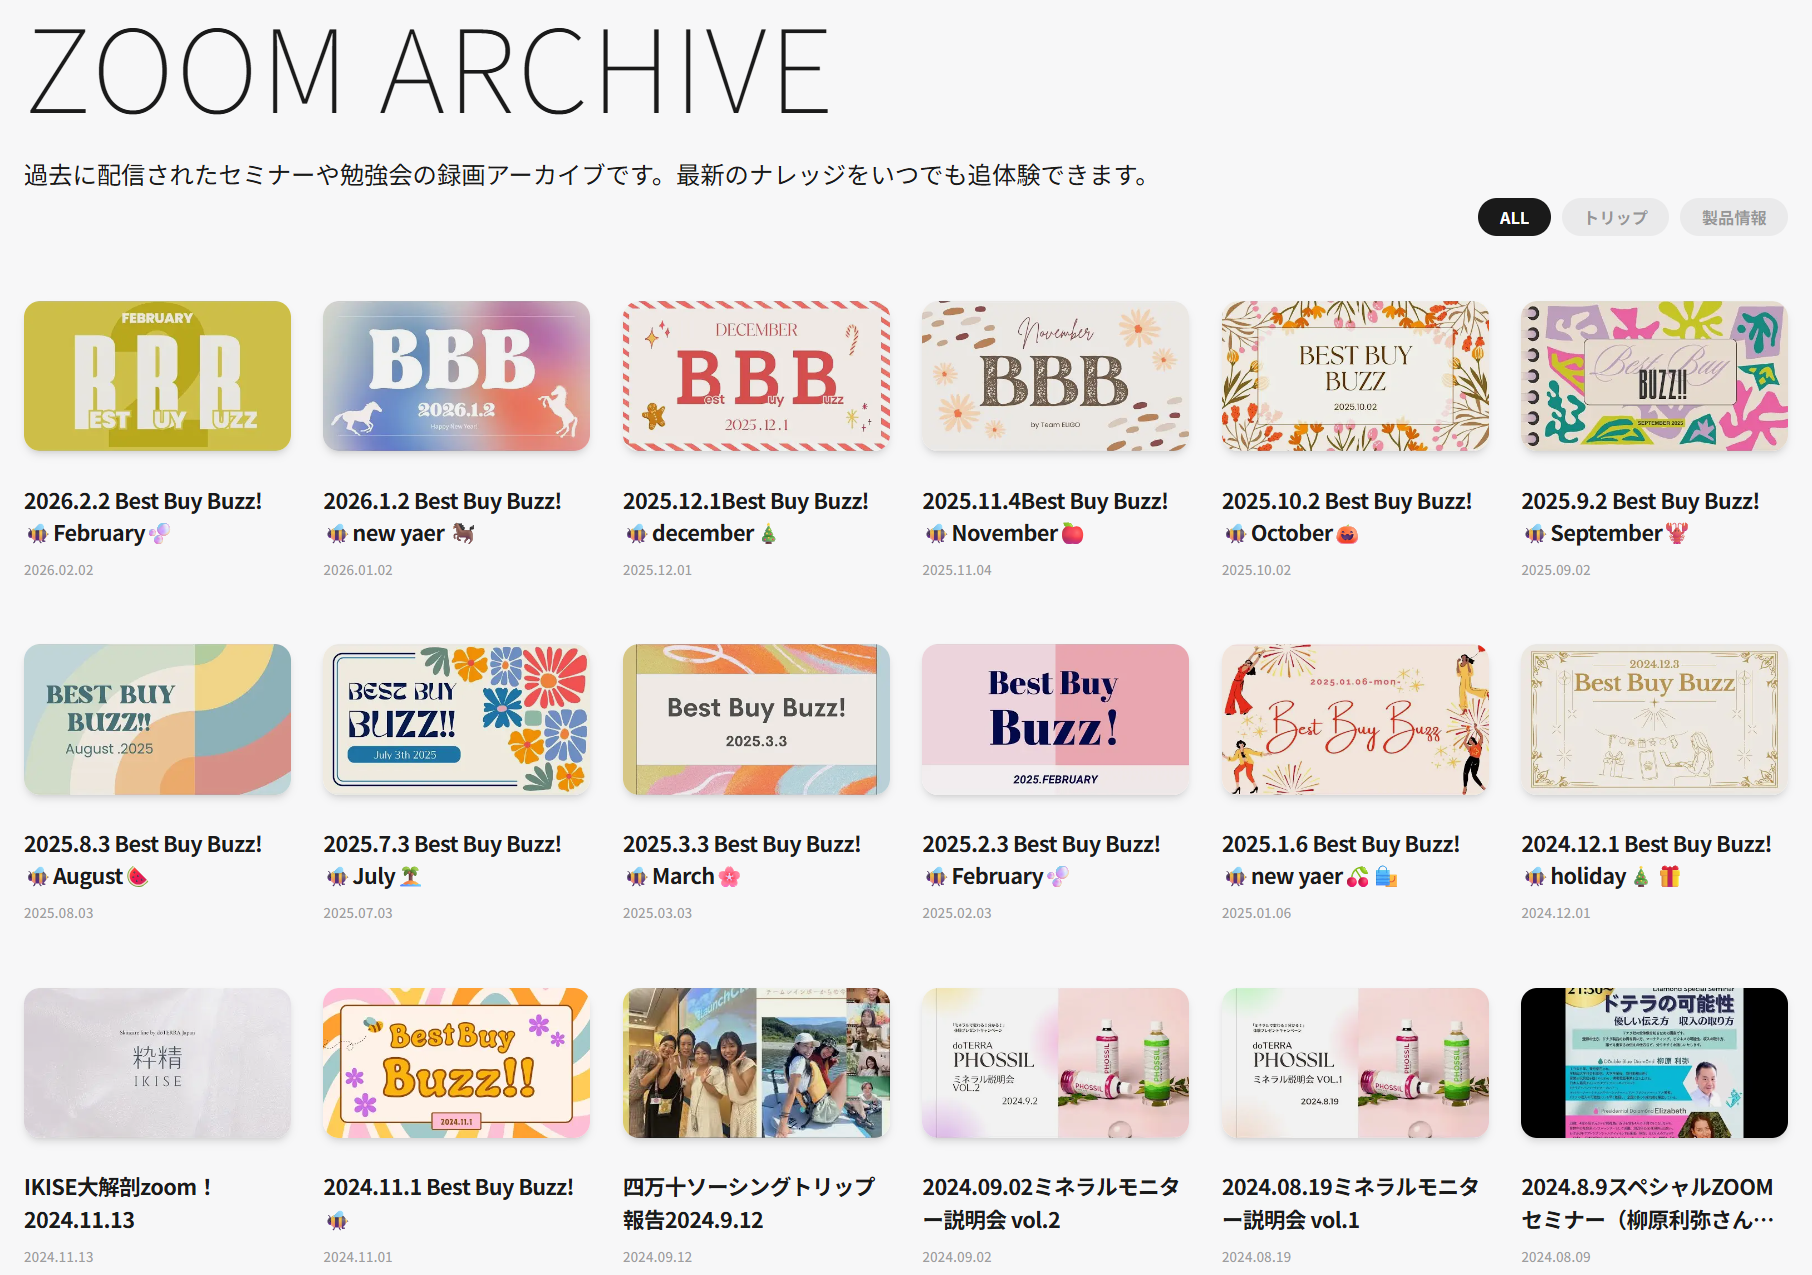
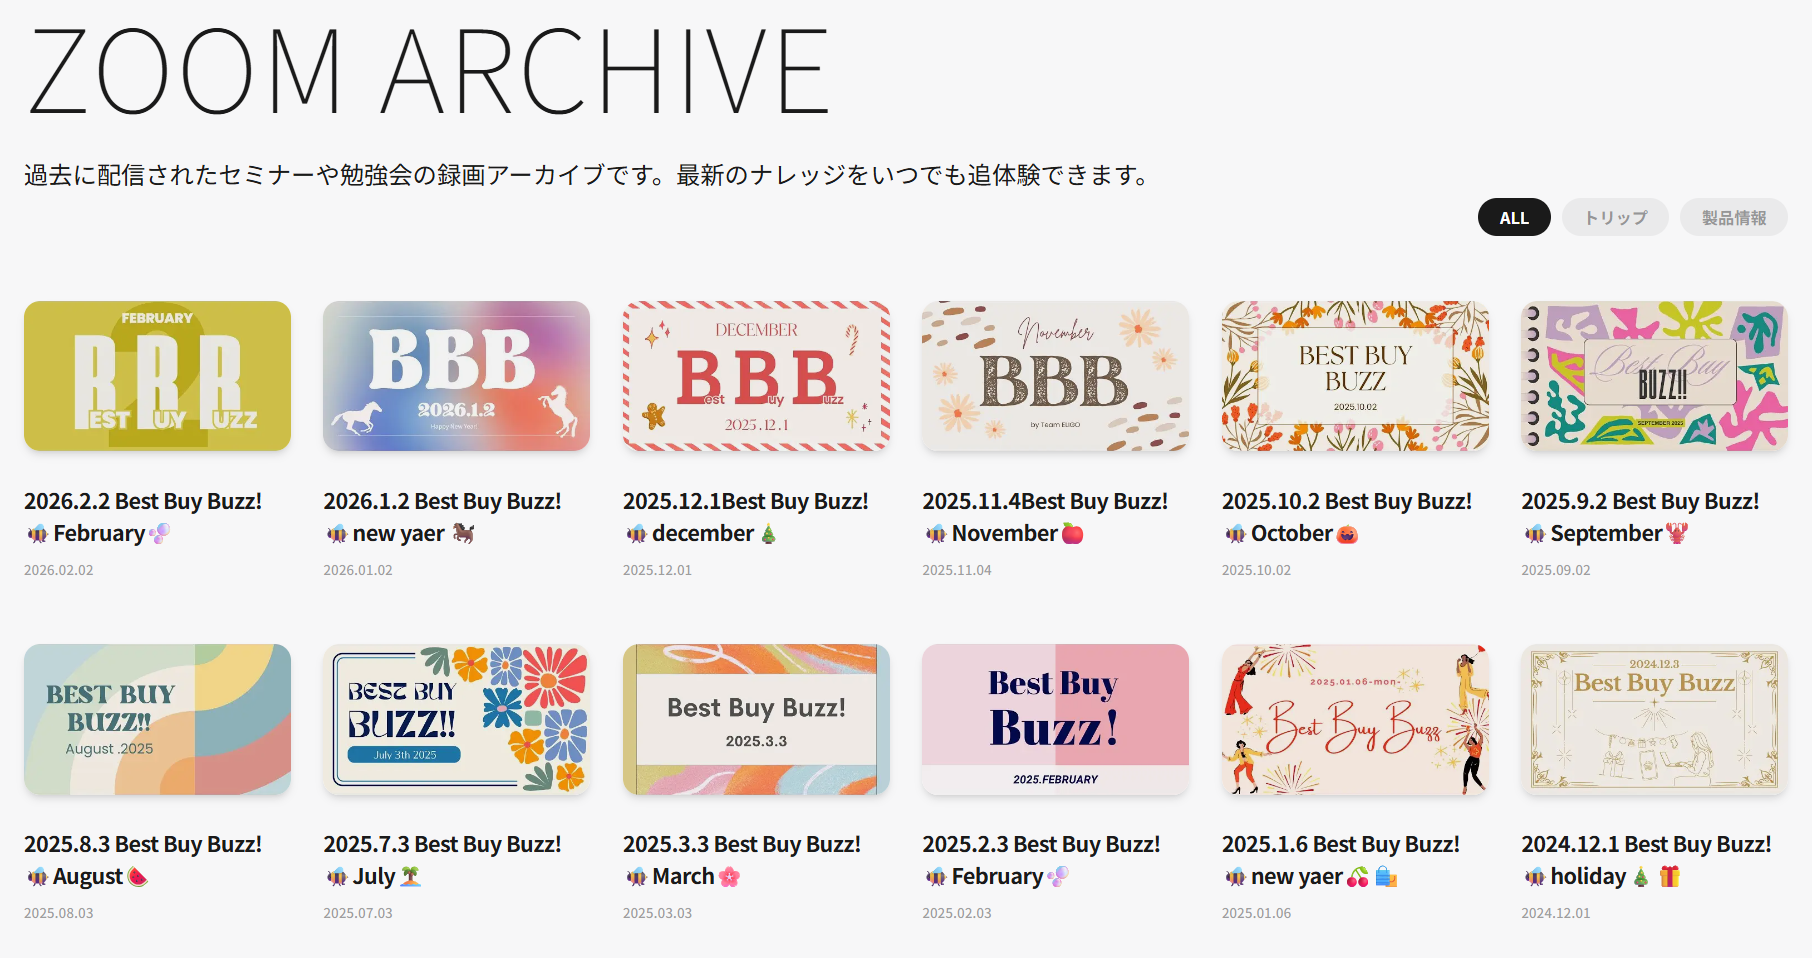
fix: remove business and income wording and images from the HP
Same HP changes as the Cloudflare branch: reword the Business &
Influence block and replace its images, swap the Step 3 screenshot that
showed the WA option, drop business and income phrases from the About
card and leader profiles, remove the compensation-plan image, and edit
the Members Only screenshots.

diff --git a/src/lib/siteCopy.ts b/src/lib/siteCopy.ts
@@ -25,7 +25,7 @@ export const siteCopy = {
         title: "What is ELIGŌ?",
         subtitle: "ELIGŌ（エリゴ）とは？",
         color: "#F7F2C8",
-        body: `ELIGŌ（エリゴ）は、Elizabethが創設したdōTERRA（ドテラ）のグループです。既存のシステムや他人の正解に依存せず、自らの心身を自ら整える「健康の自立」。そして、自分の美意識で働き方をデザインし、未来を構築する「経済の自立」。ELIGŌは、この2つの主権を自らの手に取り戻すための共同体です。
+        body: `ELIGŌ（エリゴ）は、Elizabethが創設したdōTERRA（ドテラ）のグループです。誰かの正解に頼らず、エッセンシャルオイルを自分で学び、自分で選んで暮らしに取り入れる。ELIGŌは、そんな人たちが集まる共同体です。
         
         チームに蓄積された数え切れないほどの「リアルな体験談」と、それを裏付ける「確かな科学的根拠」。この両輪に基づいて、極めて知的に、そして戦略的に植物の力を使いこなします。
 
@@ -56,15 +56,15 @@ https://www.youtube.com/watch?v=ED10RosqNUY&t=67
         title: "Our Activities",
         subtitle: "チームで得られる体験",
         color: "#D6EAD9",
-        body: `植物の力を最大限に引き出し、自分のライフスタイルやビジネスをアップデートしていくための環境です。
+        body: `植物の力を最大限に引き出し、自分のライフスタイルをアップデートしていくための環境です。
 
 **Lifestyle & Craft**
 毎日のセルフケアから、香水やバスボム、口紅作りのクラフトワークショップ、また料理、味噌作り講座まで。[aromatouch_link:Doterra公認アロマタッチ]テクニック認定トレーナーである主宰のElizabethから、家族を直接ケアできる「確かな知識と技術」を習得することもできます。
 [image_single:/assets/ABOUT/Lifestyle & Craft.JPG]
 
 **Business & Influence**
-ビジネスとして展開したいメンバーに向けたSNS戦略などのzoomも開催。あなたの「好き」や「美意識」を社会への影響力に変え、経済的な主権を確立する実践的なルートがあります。
-[image_grid:/assets/ABOUT/Business & Influence.jpg,/assets/ABOUT/Business & Influence.png]
+SNSでの発信の仕方などを学ぶzoomも開催しています。あなたの「好き」や「美意識」を、社会への影響力に変えていくための学びの場です。
+[image_grid:/assets/ABOUT/アロマタッチ.JPG,/assets/ABOUT/Lifestyle & Craft2.jpg]
 
 **Community & Event**
 毎月のZoom勉強会や、懇親会、BBQ、年に２回の大型マルシェイベント「POP'N ELIGO」を開催。活発なグループLINEには、リアルな体験談や最新情報が日々飛び交います。自ら動き、実践し、確かめるプロセスそのものを楽しむ。そんな互いに高め合う大人のためのコミュニティです。`,
@@ -135,7 +135,7 @@ https://www.youtube.com/watch?v=ED10RosqNUY&t=67
       },
       {
         title: "Materials",
-        description: "ドテラ公式資料に加え、エリザベス作成のZoom資料やクラフトレシピ、さらにこれさえあればワークショップが開催できる講座用スライドまで、幅広くダウンロードいただけます。ビジネスにもライフスタイルにも活用できる、実践的なPDF資料を多数ご用意しています。",
+        description: "ドテラ公式資料に加え、エリザベス作成のZoom資料やクラフトレシピ、さらにこれさえあればワークショップが開催できる講座用スライドまで、幅広くダウンロードいただけます。毎日の暮らしに活用できる、実践的なPDF資料を多数ご用意しています。",
         image: "/assets/members/MATERIALS.png"
       },
     ],
@@ -181,7 +181,7 @@ https://www.youtube.com/watch?v=ED10RosqNUY&t=67
         href: "https://office.doterra.com/Application/index.cfm?country=JPN&lng=ja&_gl=1*16m22a2*_up*MQ..*_ga*MTc1MzQ5OTU4OS4xNzcyMTE4MTAx*_ga_KR6KEW2NZ9*czE3NzIxMTgxMDAkbzEkZzAkdDE3NzIxMTgxMDAkajYwJGwwJGgw*_gs*MQ..*_ga_XW71K6YFHT*czE3NzIxMTgxMDAkbzEkZzAkdDE3NzIxMTgxMDAkajYwJGwwJGgw*_ga_JP5T5508JH*czE3NzIxMTgxMDAkbzEkZzAkdDE3NzIxMTgxMDAkajYwJGwwJGgw&gclid=CjwKCAiA-__MBhAKEiwASBmsBKm_9JFG-IhmloI6BFHZIDM2e2zdv_JXJFj4jbcKnpgkBDz0jxP9gRoCAfgQAvD_BwE&gbraid=0AAAAADkIucEwGuVD4pa7l6LDbL-JqXsre",
         color: "#E6A75A",
         textColor: "#E6A75A",
-        image: "/assets/HOWTOJOIN/3.png"
+        image: "/assets/HOWTOJOIN/3.jpg"
       }
     ],
     footer: "Welcome to ELIGŌ!"

diff --git a/src/lib/leadersData.ts b/src/lib/leadersData.ts
@@ -117,9 +117,9 @@ export const leaders: Leader[] = [
 その瞬間、「あ、これ今までのと違うわ」と。
 
 同じく一瞬で魅せられた友人は、
-今では大切なビジネスパートナーに。
+今では一緒に学ぶ大切な仲間に。
 
-遊びも、学びも、ビジネスも共有できる仲間が増え、
+遊びも、学びも共有できる仲間が増え、
 毎日がワクワクに変わりました。`,
             image: "/assets/Leaders/saori/LINE_NOTE_260311_2.jpg",
         },
@@ -136,8 +136,8 @@ export const leaders: Leader[] = [
 引き寄せや在り方の話も人気です。
 
 ドテラは、
-「健康」と「経済」、そして「心の自由」を
-同時に叶えられる新しい働き方を授けてくれました。
+わたしに「心の自由」を
+思い出させてくれました。
 
 可能性は無限大。
 どんな楽しみ方もOK。
@@ -309,16 +309,14 @@ doTERRAのオイルを使って
 
 その後、知らない間に長く苦しんでいた摂食障害から解放された。
 死相が出ていた母親は旅行に行けるほどになった。
-父親の認知症も治った。
-
-そんな体験を経て、わたしはドテラをもう１つの仕事にしている。`,
+父親の認知症も治った。`,
             whyDoterra: `わたしの摂食障害を治し、母の難病を軽減させ、父の認知症を治してくれた。
 
 だからわたしにとって、とても良い物！
 美味しいラーメン屋を友達に教えてあげるのと同じ感覚で教えたくなるアイテム。
 
 生活の深部に取り入れられ、気持ちを整えてくれる。
-知らない間に社会貢献できるシステムで成り立ち、自分の収入にさえ繋げる事もできる。
+知らない間に社会貢献できるシステムで成り立っている。
 
 わたしの信条は、
 「信じるな、疑うな、確かめよ」
@@ -366,7 +364,7 @@ doTERRAのオイルを使って
 
 その積み重ねが私の人生を作ります。
 
-香りも、つながりも、ビジネスも。
+香りも、つながりも。
 受け身ではなく、自分で選び、自分で楽しめる。
 
 その可能性を知っているから、
@@ -381,14 +379,11 @@ doTERRAのオイルを使って
 
 ふらっと立ち寄ってクラフトをしたり、お茶をしたりしていただける「ゆかこの部屋」を定期的に大阪市内で開いたり、ワークショップをメンバーさんと開催したりしています。
 
-また、ビジネスや「伝えること」を頑張りたい方向けのグループラインでは、
-Zoom勉強会や相談の時間を設け、お互いの凹凸を補い合える環境を整えています。
-
 doTERRA を始めたことで、
 「自分にプラスになった」と思える。
 そんな実感を持てるチームづくりを心がけています。`,
             invite: `・子育てと仕事を分断しない生き方をしたい人
-・MLMという仕組みを「人のつながり」として捉えられる人
+・人とのつながりを大切にできる人
 ・それぞれの経験を持ち寄り、共に育っていける人
 ・自分から楽しむ一歩を踏み出せる人
 
@@ -445,7 +440,7 @@ doTERRA を始めたことで、
 
 さらに毎月、テーマ別のzoomを開催しています。美容・料理・エステなど、それぞれの専門性を持つメンバーと共に、一歩踏み込んだ知識と実践力を育てています。
 
-ビジネスメンバーのグループLINEでは、お互いを高め合いながら、支え合いながら活動中！
+メンバーのグループLINEでは、お互いを高め合いながら、支え合いながら活動中！
 
 そして何より…ここは〈人があったかい〉チーム♡
 
